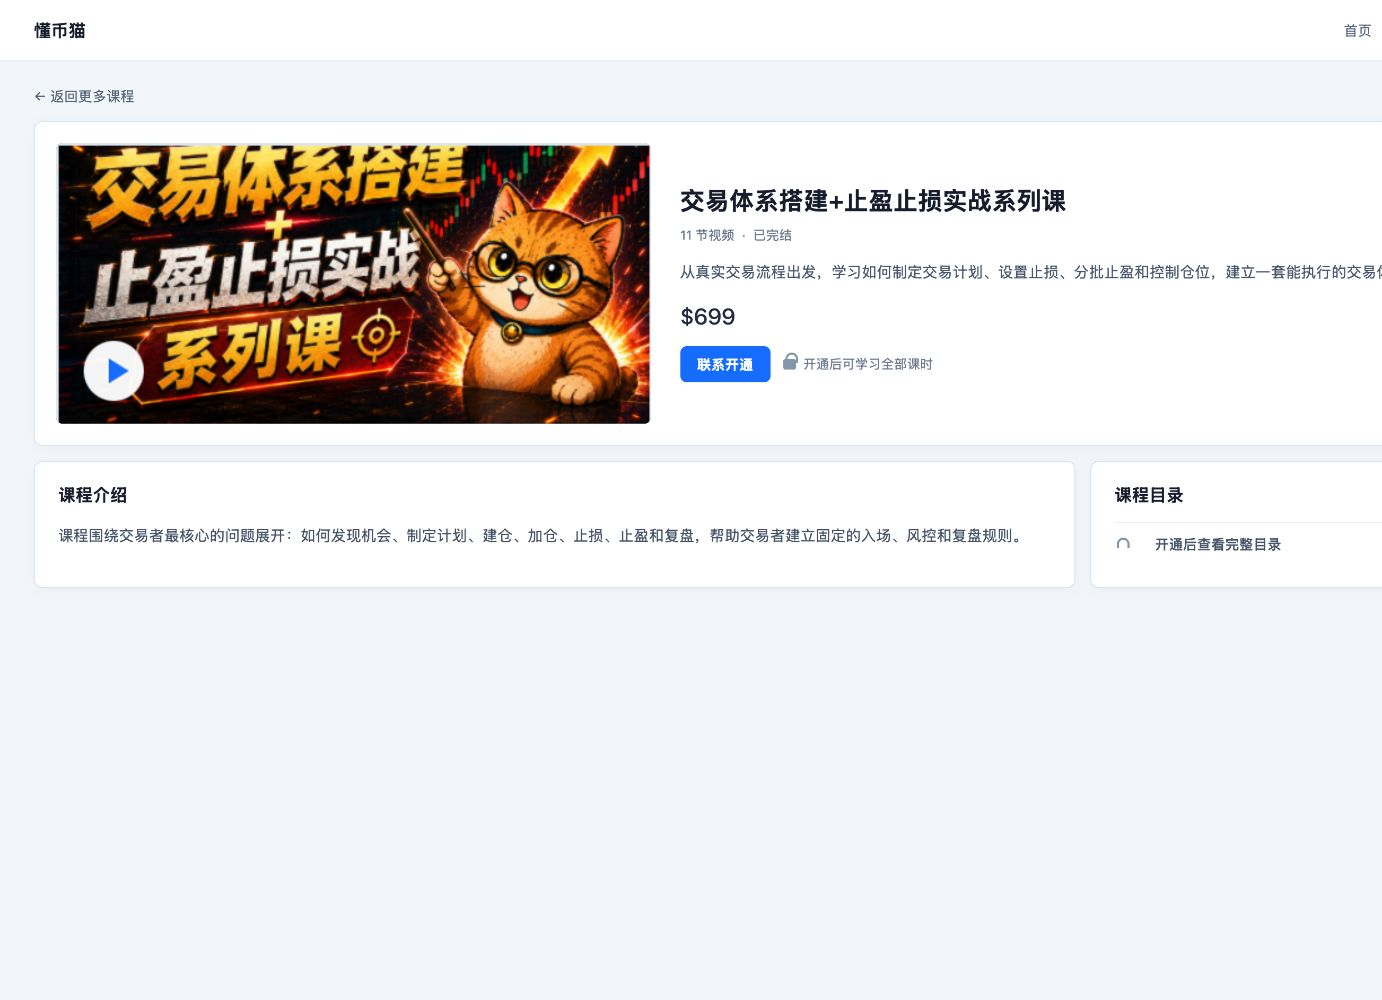
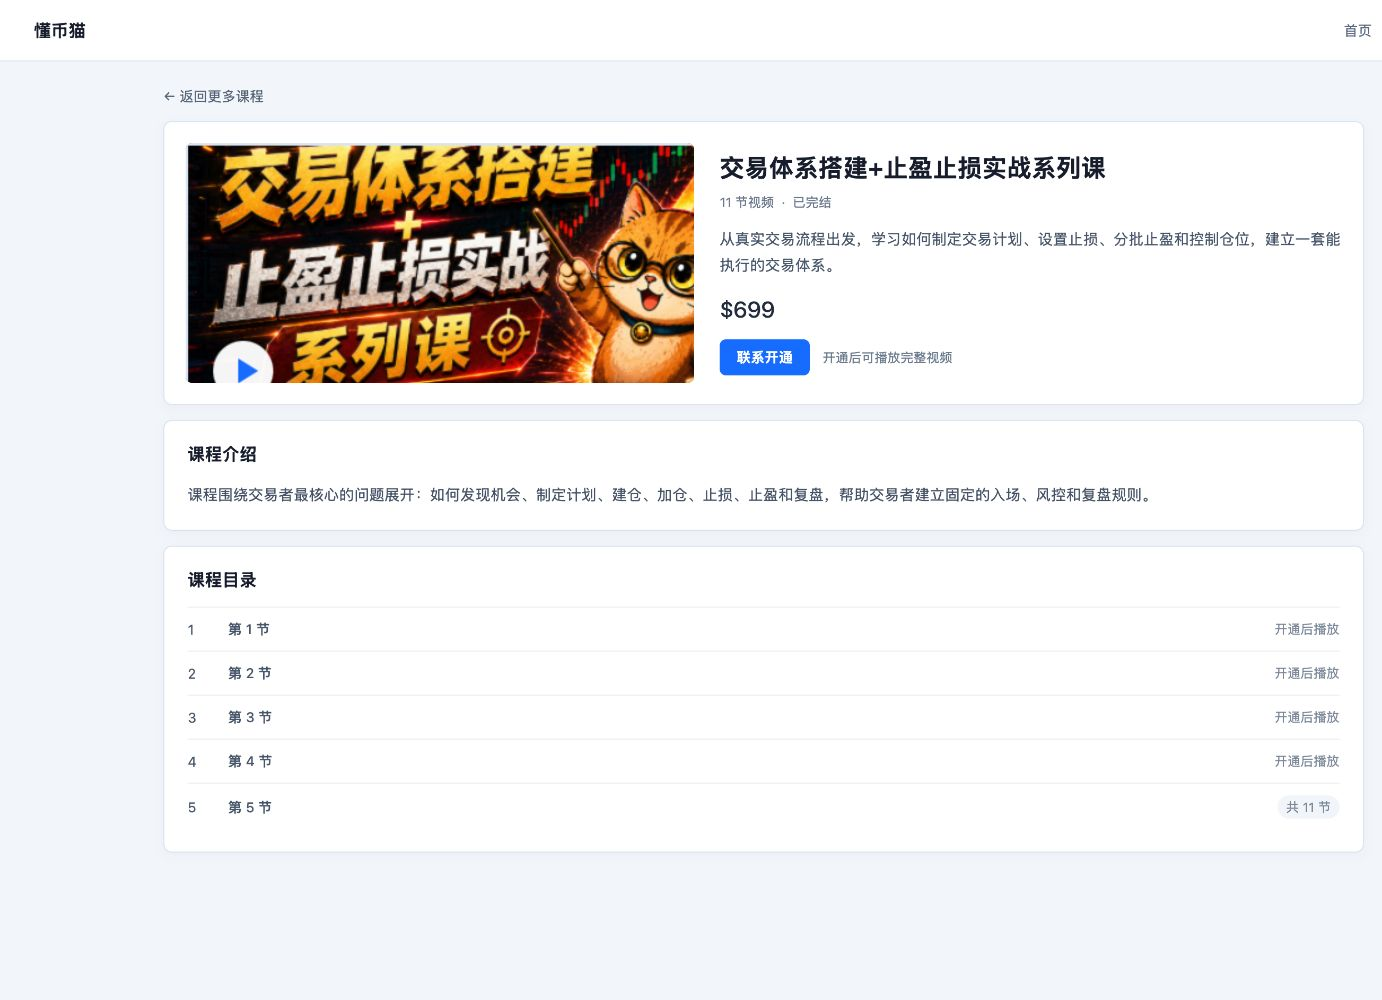
design: refine locked course syllabus preview

diff --git a/.codex/tasks/course-catalog-ux/mockups/course-pages.html b/.codex/tasks/course-catalog-ux/mockups/course-pages.html
@@ -27,7 +27,7 @@
     .brand { font-size: 16px; font-weight: 600; }
     .topnav { display: flex; align-items: center; gap: 24px; color: #65748a; font-size: 13px; }
     .topnav span:last-child { color: #172033; }
-    .workspace { max-width: 1320px; margin: 0 auto; padding: 22px 24px 48px; overflow: hidden; }
+    .workspace { max-width: 1180px; margin: 0 auto; padding: 22px 24px 48px; overflow: hidden; }
     .page-heading { margin: 0 0 18px; font-size: 21px; line-height: 1.4; font-weight: 600; }
     .screen { display: none; }
     .screen.active { display: block; }
@@ -69,9 +69,7 @@
     .price { display: flex; align-items: baseline; gap: 7px; min-width: 0; color: #263247; font-size: 17px; font-weight: 450; }
     .price del { color: #929dad; font-size: 12px; font-weight: 400; }
     .price small { border-radius: 4px; background: #fff2ef; color: #c44634; padding: 3px 6px; font-size: 11px; font-weight: 450; }
-    .access { display: inline-flex; align-items: center; gap: 7px; color: #6d7c90; font-size: 12px; }
-    .lock { position: relative; width: 12px; height: 10px; border-radius: 2px; background: #91a0b3; }
-    .lock::before { content: ""; position: absolute; left: 2px; top: -6px; width: 8px; height: 8px; border: 2px solid #91a0b3; border-bottom: 0; border-radius: 8px 8px 0 0; }
+    .access { display: inline-flex; align-items: center; color: #7a8798; font-size: 12px; }
     .arrow { width: 28px; height: 28px; display: grid; place-items: center; border: 1px solid #d8e2ef; border-radius: 50%; color: #526176; font-size: 15px; }
     .back { width: max-content; display: inline-flex; align-items: center; gap: 6px; border: 0; background: transparent; color: #5f6e82; padding: 0; margin-bottom: 14px; font-size: 13px; }
     .detail-hero, .panel, .player, .lesson-list { border: 1px solid #dfe7f2; border-radius: 8px; background: #fff; box-shadow: 0 3px 12px rgba(15, 23, 42, .035); }
@@ -86,7 +84,7 @@
     .detail-price small { border-radius: 4px; background: #fff2ef; color: #c44634; padding: 3px 7px; font-size: 11px; }
     .primary { height: 34px; border: 1px solid #1677ff; border-radius: 6px; background: #1677ff; color: #fff; padding: 0 15px; font-size: 13px; font-weight: 520; }
     .permission-note { display: inline-flex; align-items: center; gap: 7px; margin-left: 12px; color: #778599; font-size: 12px; }
-    .detail-body { display: grid; grid-template-columns: minmax(0, 1fr) 300px; gap: 14px; margin-top: 14px; }
+    .detail-body { display: grid; grid-template-columns: 1fr; gap: 14px; margin-top: 14px; }
     .panel { padding: 20px 22px; }
     .panel h3 { margin: 0 0 14px; font-size: 16px; font-weight: 560; }
     .panel p { margin: 0; color: #4f5e72; font-size: 14px; line-height: 1.85; }
@@ -94,6 +92,8 @@
     .syllabus div { display: grid; grid-template-columns: 28px minmax(0, 1fr) auto; gap: 10px; align-items: center; border-top: 1px solid #edf1f5; padding: 11px 0; color: #526176; font-size: 13px; }
     .syllabus b { font-weight: 450; }
     .syllabus small { color: #8793a4; }
+    .lesson-state { color: #9aa6b6; font-size: 12px; }
+    .soft-badge { display: inline-flex; align-items: center; height: 22px; border-radius: 999px; background: #f3f6fa; color: #6f7e92; padding: 0 8px; font-size: 12px; }
     .learning-head { display: flex; align-items: end; justify-content: space-between; gap: 20px; margin-bottom: 12px; }
     .learning-head h2 { margin: 0 0 5px; font-size: 20px; font-weight: 580; }
     .learning-head span, .learning-head em { color: #768397; font-size: 12px; font-style: normal; }
@@ -148,7 +148,7 @@
       <div class="course-grid">
         <article class="course-card"><div class="cover a"></div><div class="card-body"><h2>交易体系搭建+止盈止损实战系列课</h2><p>从真实交易流程出发，建立能执行的交易体系。</p><div class="meta"><span>11 节视频</span><span>已完结</span></div><div class="card-foot"><span class="price">$699</span><span class="arrow">→</span></div></div></article>
         <article class="course-card"><div class="cover b"></div><div class="card-body"><h2>小资金做大系列课</h2><p>从小资金到高收益，建立更清晰的交易计划。</p><div class="meta"><span>1 节视频</span><span>更新中</span></div><div class="card-foot"><span class="price">$899</span><span class="arrow">→</span></div></div></article>
-        <article class="course-card"><div class="cover c"></div><div class="card-body"><h2>懂币猫独家策略教学</h2><p>用实盘流程拆解每一次趋势交易决策。</p><div class="meta"><span>5 节视频</span><span>更新中</span></div><div class="card-foot"><span class="access"><i class="lock"></i>需开通</span><span class="arrow">→</span></div></div></article>
+        <article class="course-card"><div class="cover c"></div><div class="card-body"><h2>懂币猫独家策略教学</h2><p>用实盘流程拆解每一次趋势交易决策。</p><div class="meta"><span>5 节视频</span><span>更新中</span></div><div class="card-foot"><span class="access">查看目录</span><span class="arrow">→</span></div></div></article>
         <article class="course-card"><div class="cover d"></div><div class="card-body"><h2>关键行情分析课</h2><p>从盘面信息中识别关键机会与风险。</p><div class="meta"><span>7 节视频</span><span>更新中</span></div><div class="card-foot"><span class="price">$99</span><span class="arrow">→</span></div></div></article>
         <article class="course-card"><div class="cover e"></div><div class="card-body"><h2>滚仓实战系列课</h2><p>学习试仓、加仓和滚动加仓的实盘方法。</p><div class="meta"><span>2 节视频</span><span>已完结</span></div><div class="card-foot"><span class="price">$199</span><span class="arrow">→</span></div></div></article>
         <article class="course-card"><div class="cover f"></div><div class="card-body"><h2>美股定投课程</h2><p>课程内容即将上线。</p><div class="meta"><span>即将上线</span></div><div class="card-foot"><span class="price">$9.9 <del>$99</del><small>限时体验价</small></span><span class="arrow">→</span></div></div></article>
@@ -159,11 +159,11 @@
       <button class="back">← 返回更多课程</button>
       <section class="detail-hero">
         <div class="detail-cover"><div class="cover a"></div></div>
-        <div class="detail-copy"><h2>交易体系搭建+止盈止损实战系列课</h2><div class="meta"><span>11 节视频</span><span>已完结</span></div><p>从真实交易流程出发，学习如何制定交易计划、设置止损、分批止盈和控制仓位，建立一套能执行的交易体系。</p><div class="detail-price">$699</div><button class="primary">联系开通</button><span class="permission-note"><i class="lock"></i>开通后可学习全部课时</span></div>
+        <div class="detail-copy"><h2>交易体系搭建+止盈止损实战系列课</h2><div class="meta"><span>11 节视频</span><span>已完结</span></div><p>从真实交易流程出发，学习如何制定交易计划、设置止损、分批止盈和控制仓位，建立一套能执行的交易体系。</p><div class="detail-price">$699</div><button class="primary">联系开通</button><span class="permission-note">开通后可播放完整视频</span></div>
       </section>
       <div class="detail-body">
         <article class="panel"><h3>课程介绍</h3><p>课程围绕交易者最核心的问题展开：如何发现机会、制定计划、建仓、加仓、止损、止盈和复盘，帮助交易者建立固定的入场、风控和复盘规则。</p></article>
-        <aside class="panel"><h3>课程目录</h3><div class="syllabus"><div><span><i class="lock"></i></span><b>开通后查看完整目录</b><small>共 11 节</small></div></div></aside>
+        <aside class="panel"><h3>课程目录</h3><div class="syllabus"><div><span>1</span><b>第 1 节</b><small class="lesson-state">开通后播放</small></div><div><span>2</span><b>第 2 节</b><small class="lesson-state">开通后播放</small></div><div><span>3</span><b>第 3 节</b><small class="lesson-state">开通后播放</small></div><div><span>4</span><b>第 4 节</b><small class="lesson-state">开通后播放</small></div><div><span>5</span><b>第 5 节</b><small class="soft-badge">共 11 节</small></div></div></aside>
       </div>
     </section>
 

diff --git a/.codex/tasks/course-catalog-ux/outputs/COURSEUX_20260713T120722Z_public-syllabus-no-lock_decision.md b/.codex/tasks/course-catalog-ux/outputs/COURSEUX_20260713T120722Z_public-syllabus-no-lock_decision.md
@@ -1,0 +1,38 @@
+# Course Catalog UX Decision
+
+TASK_ID: course-catalog-ux
+TASK_GOAL: 优化懂币猫前台交易实战课程的列表、未授权详情和已授权学习路径，消除重复、含混和低效操作；每个页面先用真实字段出高保真图，经用户确认后再实施。
+DECISION_STATUS: PASS
+CREATED_AT: 2026-07-13T12:07:22Z
+GUARDS_REQUIRED: true
+
+## EVIDENCE
+
+- User rejected the lock treatment as visually poor.
+- User clarified the product rule: locked users should be able to see the course directory; only actual videos should be inaccessible.
+- The high-fidelity mockup has been updated task-locally only.
+- Catalog card access copy changed from a lock icon plus `需开通` to `查看目录`.
+- Locked course detail now exposes visible lesson rows and labels playback as available after opening access.
+- Course detail layout width was narrowed and the directory moved to a full-width section to prevent clipped text.
+
+## GOAL GAP
+
+- Completed: locked course exploration now follows the confirmed product logic: view course and directory first, open access to play videos.
+- Completed: the ugly lock icon has been removed from the high-fidelity proposal.
+- Missing: user has not yet confirmed this revised proposal for implementation.
+- Forbidden: product source, backend, database, deployment, payment, and Open portfolio work remain untouched.
+
+## CODEX CHECK
+
+- CONFIRMED user correction: a locked course should still show its directory.
+- CORRECTED prior mockup: replaced the lock icon and `需开通` with softer `查看目录`.
+- CORRECTED prior detail layout: directory should be readable and full-width instead of squeezed into a narrow side panel.
+- REJECTED scope expansion: no payment flow, video permission backend, or product-source implementation was added.
+
+## CURRENT BOTTLENECK
+
+The revised no-lock, public-syllabus high-fidelity design needs user confirmation before implementation.
+
+## ONE_ALLOWED_NEXT_STEP
+
+Show the revised catalog and locked-detail screenshots to the user. If confirmed, implement this exact locked-course behavior in the frontend; otherwise continue iterating only in task-local mockups.
